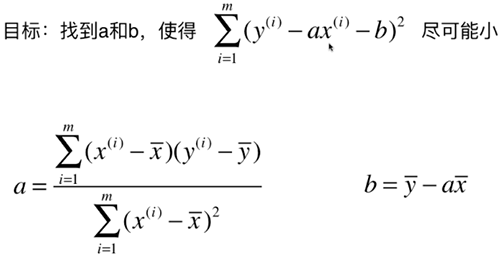
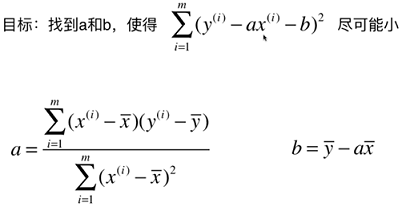
adjust pic size

diff --git a/chapter5/core/simple_linear_regression.py b/chapter5/core/simple_linear_regression.py
@@ -1,4 +1,5 @@
 import numpy as np
+from chapter4.core.metrics import r2_score
 
 
 class SimpleLinearRegression1:
@@ -94,6 +95,16 @@ class SimpleLinearRegression2:
         给定单个带预测数据 x_single，返回 x_single 的预测结果
         """
         return self.a_ * x_single + self.b_
+
+    def score(self, x_test, y_test):
+        """
+        根据测试数据集 x_test 和 y_test 确定当前模型的准确度
+        :param x_test:
+        :param y_test:
+        :return:
+        """
+        y_predict = self.predict(x_test)
+        return r2_score(y_test, y_predict)
 
     def __repr__(self):
         return "SimpleLinearRegression1()"

diff --git a/chapter5/r_squared.py b/chapter5/r_squared.py
@@ -1,0 +1,23 @@
+from sklearn import datasets
+
+from chapter4.core.metrics import r2_score
+from chapter4.core.model_selection import train_test_split
+from chapter5.core.simple_linear_regression import SimpleLinearRegression2
+
+boston = datasets.load_boston()
+x = boston.data[:, 5]
+y = boston.target
+
+x = x[y < 50.0]
+y = y[y < 50.0]
+
+x_train, x_test, y_train, y_test = train_test_split(x, y, seed=666)
+
+reg = SimpleLinearRegression2()
+reg.fit(x_train, y_train)
+y_predict = reg.predict(x_test)
+
+print(r2_score(y_test, y_predict))
+print(reg.score(x_test, y_test))
+
+# scikit-learn 中的 R Square

diff --git a/chapter4/core/metrics.py b/chapter4/core/metrics.py
@@ -43,3 +43,13 @@ def mean_absolute_error(y_true, y_predict):
     """
     assert len(y_true) == len(y_predict), "the size of y_true must be equal to the size of y_predict"
     return np.sum(np.absolute(y_true - y_predict)) / len(y_true)
+
+
+def r2_score(y_true, y_predict):
+    """
+    计算 y_true 和 y_predict 之间的 R Square
+    :param y_true:
+    :param y_predict:
+    :return:
+    """
+    return 1 - mean_squared_error(y_true, y_predict) / np.var(y_true)

diff --git a/chapter5/README.md b/chapter5/README.md
@@ -28,15 +28,19 @@
 ![最小二乘法](images/最小二乘法.png)
 
 #### 回归算法的评价
+
 ![衡量标准1](images/衡量标准1.png)
 
+##### MSE
 ![衡量标准2](images/衡量标准2.png)
 
+##### RMSE
 ![衡量标准3](images/衡量标准3.png)
 
+##### MAE
 ![衡量标准4](images/衡量标准4.png)
 
-#### R Squared
+##### R Squared
 ![R-Squared](images/R-Squared.png)
 
 - 分子表示使用我们的模型预测产生的错误
@@ -46,3 +50,17 @@
 R 方的结论：
 
 ![R-Squared-result](images/R-Squared-result.png)
+
+#### 多元线性回归
+m 个样本， n 个向量
+![多元线性回归](images/多元线性回归.png)
+
+![多元线性回归2](images/多元线性回归2.png)
+
+![多元线性回归3](images/多元线性回归3.png)
+
+![多元线性回归4](images/多元线性回归4.png)
+
+![多元线性回归5](images/多元线性回归5.png)
+
+![多元线性回归6](images/多元线性回归6.png)
